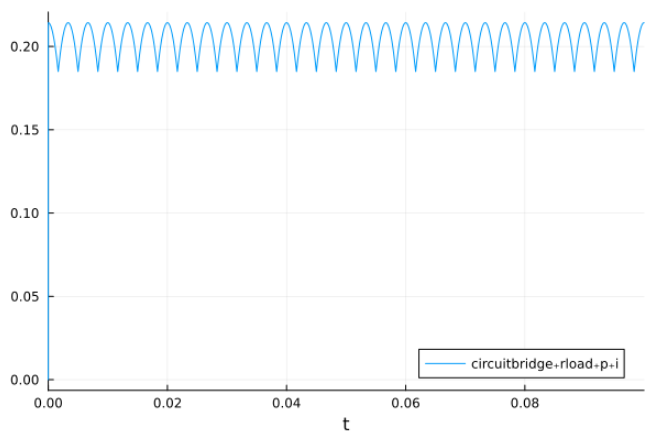
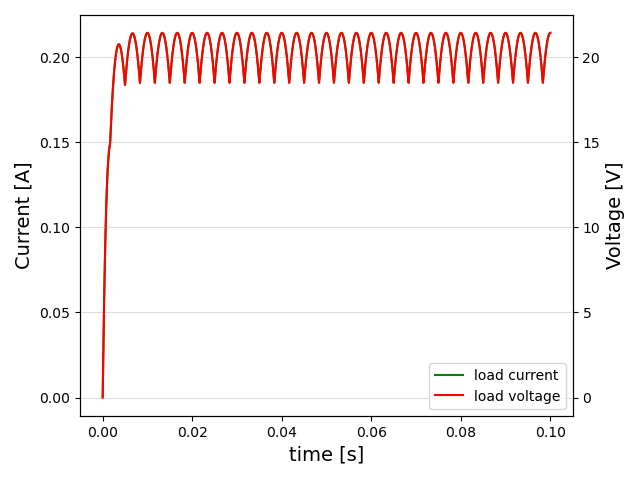
Update README.md

Changed region(s): [[0.0, 0.0297, 0.9812, 0.9795]]

diff --git a/README.md b/README.md
@@ -35,3 +35,9 @@ After calling `mtkcompile()` the system is a pure DAE system without any differe
 ## Synchronous Machine
 
 ![Synchronous Machine](image-2.png)
+
+To run the example:
+
+```julia
+include("examples/synchronous_machine.jl)
+```
